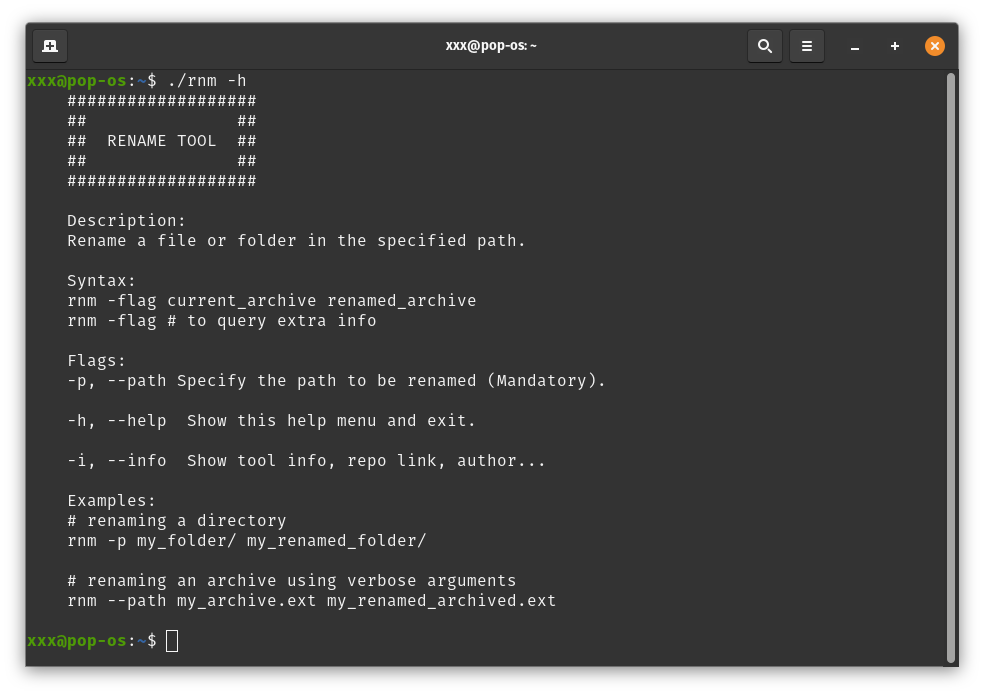
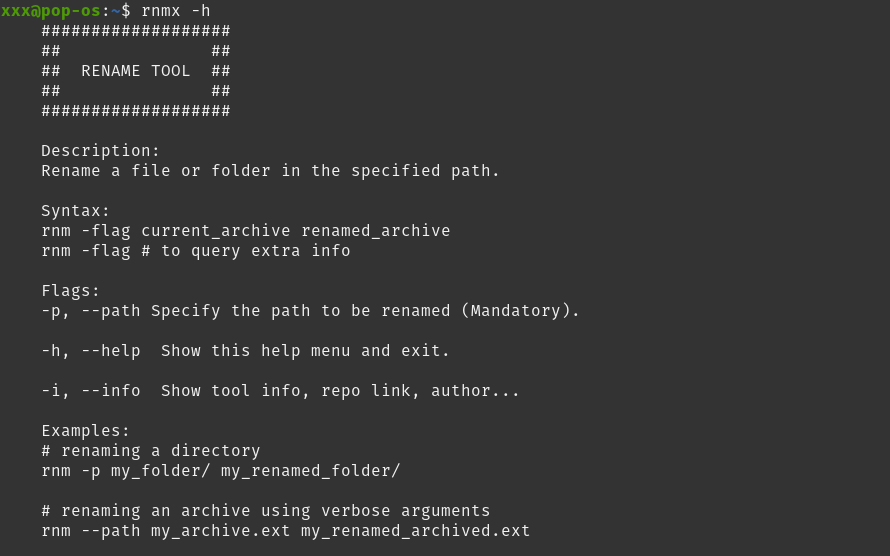
UPDATE all info where name rnm is displayed, to avoid name conflicts in crates.io

Changed region(s): [[0.0, 0.0, 1.0, 1.0]]

diff --git a/src/setup.rs b/src/setup.rs
@@ -2,10 +2,10 @@
 //! author: @Amtr4x
 use std::env;
 
-use rnm::Asset;
+use rnmx::Asset;
 
 fn display_banner() {
-    let tool_name: &str = "RENAME TOOL";
+    let tool_name: &str = "RENAME TOOL (Renamix)";
     let padding: String = " ".repeat(4);
 
     println!("{padding}{}", "#".repeat(tool_name.len() + 8));
@@ -31,8 +31,8 @@ fn display_menu() {
     Rename a file or folder in the specified path.
     
     Syntax:    
-    rnm -flag current_archive renamed_archive
-    rnm -flag # to query extra info
+    rnmx -flag current_archive renamed_archive
+    rnmx -flag # to query extra info
 
     Flags:
     -p, --path Specify the path to be renamed (Mandatory).
@@ -43,17 +43,17 @@ fn display_menu() {
     
     Examples:
     # renaming a directory
-    rnm -p my_folder/ my_renamed_folder/
+    rnmx -p my_folder/ my_renamed_folder/
 
     # renaming an archive using verbose arguments
-    rnm --path my_archive.ext my_renamed_archived.ext
+    rnmx --path my_archive.ext my_renamed_archived.ext
     ";
     display_banner();
     println!("{menu}");
 }
 
 fn display_app_info() {
-    let info = "author: Leandrys Osorio (Amtr4x)\nLicense: MIT\nrelease-version: 1.0\n\n for donations read the README.md info at: https://github.com/Amtr4x/rnm?tab=readme-ov-file#can-i-make-a-thank-you-donation";
+    let info = "author: Leandrys Osorio (Amtr4x)\nLicense: MIT\nrelease-version: 1.0\n\n for donations read the README.md info at: https://github.com/Amtr4x/rnmx?tab=readme-ov-file#can-i-make-a-thank-you-donation";
     println!("{info}");
 }
 

diff --git a/README.md b/README.md
@@ -1,5 +1,5 @@
 
-# Rename tool ( rnm )
+# Rename tool ( Renamix )
 
 A rename CLI tool to make easy the process mainly in Linux systems written in Rust.
 
@@ -9,18 +9,18 @@ A rename CLI tool to make easy the process mainly in Linux systems written in Ru
 
 ```bash
 # renaming a directory
-rnm -p my_folder/ my_renamed_folder/
+rnmx -p my_folder/ my_renamed_folder/
 
 # renaming an archive using verbose arguments
-rnm --path my_archive.ext my_renamed_archived.ext
+rnmx --path my_archive.ext my_renamed_archived.ext
 ```
 
 
 ## Screenshots
 
-![rnm help query](./screenshots/help.png)
+![rnmx help query](./screenshots/help.png)
 
-![rnm success renaming](./screenshots/success.png)
+![rnmx success renaming](./screenshots/success.png)
 
 
 ## Usage
@@ -28,9 +28,9 @@ rnm --path my_archive.ext my_renamed_archived.ext
 ### Syntax
 
 ```bash
-rnm -flag current_archive renamed_archive
+rnmx -flag current_archive renamed_archive
 
-rnm -flag # to query extra info
+rnmx -flag # to query extra info
 ```
 
 ### Flags
